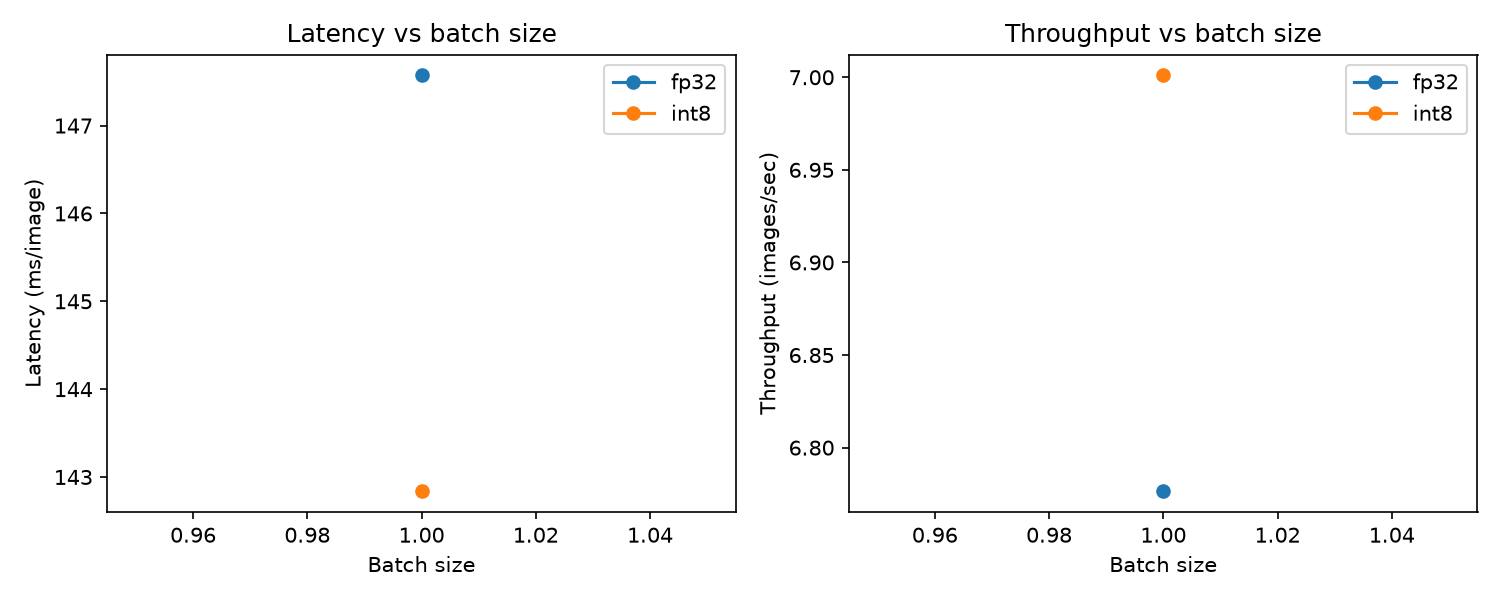
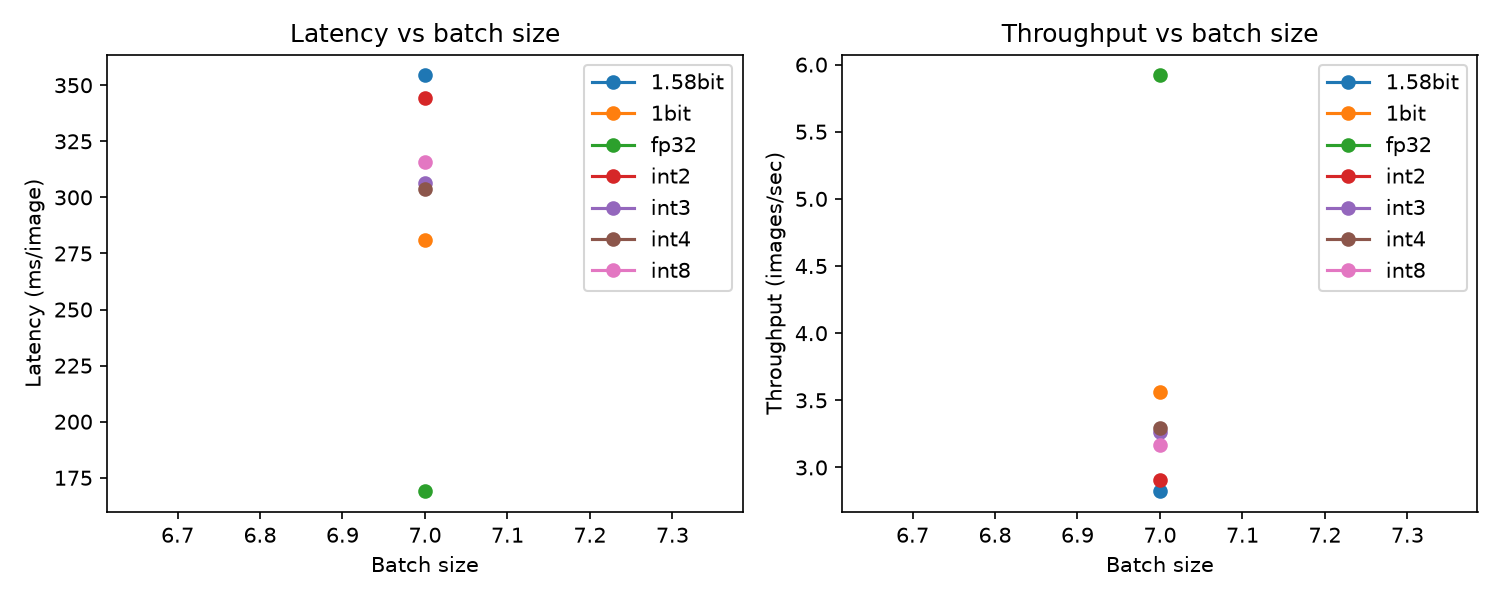
data json, identifying animal

diff --git a/src/quantize.py b/src/quantize.py
@@ -81,15 +81,22 @@ def load_finetuned_into_quantizable(arch: str, num_classes: int, fp32_checkpoint
 
 
 def quantize_int8_static(model: nn.Module, calibration_loader, num_calibration_batches: int = 10) -> nn.Module:
+    # set model to evaluation mode
     model.eval()
+    # fuses layers of nn into one single operation (reduces memory acccess overhead/improves inference speed)
     model.fuse_model()
+    # specifies quantization configuration (fbgemm is optimized for CPU deployment)
     model.qconfig = torch.quantization.get_default_qconfig("fbgemm")
+    # inserts "observer" modules into network to track min and max ranges of weights/activations during calibration
+    # prepares model for static quantizatiom
     torch.quantization.prepare(model, inplace=True)
+    # runs calibration loop: feeds data into model while observers learn
     with torch.no_grad():
         for i, (images, _) in enumerate(calibration_loader):
             if i >= num_calibration_batches:
                 break
             model(images)
+    # converts model into quantized version: removes observers,replaces standard FP32 operations/weights with INT8 counterparts based on calibration data collected
     torch.quantization.convert(model, inplace=True)
     return model
 
